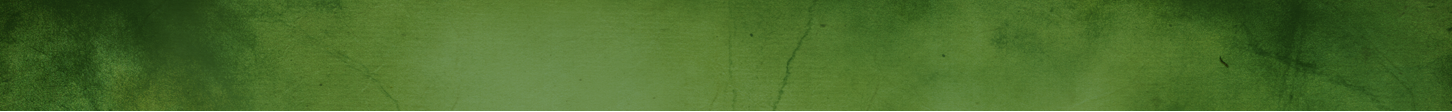
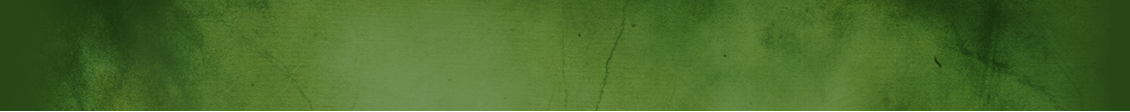
change in header.png new all.png auction item list styled busy loading gif added for auction new repeatx.png changes to login title no more username css changes for buttons, made flat colors for ie

diff --git a/website_saru/ss.css b/website_saru/ss.css
@@ -4,6 +4,7 @@
   width:15px;
   height:15px;
 }
+
 .chkGreen{
   background-image:url(_site/all.png);
   background-position:-456px -134px;
@@ -227,13 +228,12 @@
 	height:15px;
 	top:10px;
 	left:8px;
-	background-image:url('_site/all.png');
-	background-position: -140px -60px;
-	cursor:pointer;
+/*	background-image:url('_site/all.png');
+	background-position: -140px -60px;*/	cursor:pointer;
 }
-.viewAuction:hover{
+/*.viewAuction:hover{
 	background-position: -220px -60px;
-}
+}*/
 .time_stamp{
 	font-family:"Impact";
 	color:#F0BD00;
@@ -275,6 +275,7 @@
 .cmdButton {
 	position:absolute;
 	cursor:pointer;
+	background-color:#606060;
 	background: -webkit-gradient(linear, 0% 0%, 0% 100%, from(#dad8d9), to(#8c8c8c));
 	background: -webkit-linear-gradient(top, #dad8d9, #8c8c8c);
 	background:    -moz-linear-gradient(top, #dad8d9, #8c8c8c);
@@ -295,6 +296,7 @@
 	font-size: 11px;
 	font-weight:bold;
 	color:#2B2B2B;
+	background-color:#EFBD00;
 	background: -webkit-gradient(linear, 0% 0%, 0% 100%, from(#F2C126), to(#B0750D));
 	background: -webkit-linear-gradient(top, #F2C126, #B0750D);
 	background: -moz-linear-gradient(top, #F2C126, #B0750D);
@@ -302,6 +304,7 @@
 	background: -o-linear-gradient(top, #F2C126, #B0750D);
 }
 .cmdButton:active {
+	background-color:#EFBD00;
 	background: -webkit-gradient(linear, 0% 0%, 0% 100%, from(#F2C126), to(#B0750D));
 	background: -webkit-linear-gradient(top, #F2C126, #B0750D);
 	background: -moz-linear-gradient(top, #F2C126, #B0750D);
@@ -367,12 +370,14 @@
 }
 
 .txtGreen{
-	font-family:"Arial Black";
-	color:#d2d2d2;
+	font-family:"Arial Black","Arial";
+	font-weight:900;
+	color:#f1f1f1;
 }
 .txtBlue{
   /*color:#3f6386;*/
- font-family:"Arial Black";
+	font-family:"Arial Black","Arial";
+	font-weight:900;
  text-shadow: 0 1px 1px #333333;
  color:#F2C126 !important;
 }
@@ -418,7 +423,7 @@ div{
 	cursor:default;
 }
 body{
-	color:#d2d2d2;
+	color:#f1f1f1;
 	text-transform:uppercase;
 	font-size:9px;
 	font-family:"Arial";
@@ -449,7 +454,8 @@ body{
 .left_banner_info span{
     position: relative;
     text-align: right;
-    font-family: "Arial Black";
+    font-family:"Arial Black","Arial";
+	font-weight:900;
 }
 
 #right_banner_container{
@@ -559,8 +565,9 @@ body{
 	z-index:2;
 	position: relative;
 	width:100%;
-	background-image:url(_site/header.png);
-	background-repeat: no-repeat;
+	background-position: 0px -1101px;
+	background-image:url(_site/repeatx.png);
+	background-repeat: repeat-x;
 }
 #bodypage{
 	height:725px;
@@ -1071,6 +1078,8 @@ input.registerBox{
 	cursor:pointer;
 }
 .menutop{
+	background-image:url(_site/header.png);
+	background-repeat: no-repeat;
 	width:1130px;
 	height:100%;
 	margin:0 auto;
@@ -1087,13 +1096,13 @@ input.registerBox{
 }
 .menutopitem{
 	background:url(_site/repeatx.png) 0px -320px repeat-x;
-	font-family:"Arial Black";
+	font-family:"Arial Black", "Arial";
 	position:relative;
 	float:right;
 	cursor:pointer;
 	text-shadow: 0px 1px 1px #003803;
 	text-transform:uppercase;
-	font-weight:bolder;
+	font-weight:900;
 	font-size:12px;
 	padding:10px;
 	color:#FAF8F8;
@@ -1122,10 +1131,10 @@ input.registerBox{
 	background:url(_site/all.png)  -300px -80px no-repeat;
 }
 .menu_split{
-	background:url(_site/all.png) -340px -41px no-repeat;
+	background:url(_site/all.png) -341px -42px no-repeat;
 	height:30px;
 	top:80px;
-	width:30px;
+	width:29px;
 	position:relative;
 	float:right;
 }
@@ -1421,7 +1430,8 @@ input.registerBox{
 .windowtitlewords{
 	text-shadow:1px 1px 1px #E4E4E4;
 	color:#393939;
-	font-family:"Arial Black";
+	font-family:"Arial Black","Arial";
+	font-weight:900;
 	padding-top:8px;
 	padding-right:20px;
 	width:100%;
@@ -1432,7 +1442,8 @@ input.registerBox{
 .windowtitlewords_active{
 	text-shadow:1px 1px 1px #E4E4E4;
 	color:#393939;
-	font-family:"Arial Black";
+	font-family:"Arial Black","Arial";
+	font-weight:900;
 	padding-top:8px;
 	padding-right:20px;
 	width:100%;
@@ -1760,7 +1771,7 @@ table.grid tr.numberone td{
 /** AUCTION **/
 	
 .iconCardOwned{
-	background:url(_site/all.png) -462px -41px no-repeat;
+	background:url(_site/all.png) -545px 0px no-repeat;
 	width:21px;
 	height:17px;
 	padding-top:3px;
@@ -1874,6 +1885,25 @@ table.grid tr.numberone td{
 	width:80px;
 	height:125px;
 	float:left;
+	
+}
+.auctionInfoBlock{
+    height: 90%;
+    overflow: hidden;
+    padding-left: 5px;
+    text-align: left;
+    width: 135px;
+    left:90px;
+}
+.buyoutPrice{
+	bottom:17px;
+	text-align:right;
+	right:5px;
+}
+.buyoutPrice span{
+	font-family:"Arial Black","Arial";
+	font-weight:900;
+	color:#F2C126;
 }
 .bidAdjuster {
 	color:#666;

diff --git a/website_saru/_app/auction/auction.js b/website_saru/_app/auction/auction.js
@@ -664,11 +664,9 @@ WORK_Auction.prototype.loadAuctionsLarge=function()
 				marginLeft: 5,
     			marginTop: 10,
 			});
-			//divAuctionImage.onclick=ZU.clickShowFullImage(iCount);
-			
-			var divAuctionTitle = ZA.createDiv(divAuctionBlock,"txtGreen","","div");
+			var divAuctionInfo = ZA.createDiv(divAuctionBlock,"auctionInfoBlock");
+			var divAuctionTitle = ZA.createDiv(divAuctionInfo,"txtGreen","","div");
 			$(divAuctionTitle).css({
-				left:85,
 				fontSize:12,
 				textAlign:"left",
 				height:12,
@@ -681,7 +679,7 @@ WORK_Auction.prototype.loadAuctionsLarge=function()
 			if(cardOwned > 0){
 				var divCardOwned = ZA.createDiv(divAuctionImage,"iconCardOwned",iCount.toString(),"div");
 				$(divCardOwned).css({
-					top: -3,
+					top: 93,
 					left: "auto",
 					right: -10,
 				});
@@ -692,15 +690,15 @@ WORK_Auction.prototype.loadAuctionsLarge=function()
 			}
 			
 			//highest bidder indicator
-			var divHighestBidder = ZA.createDiv(divAuctionBlock,"iconHighestBidder",iCount.toString(),"div");
+			var divHighestBidder = ZA.createDiv(divAuctionInfo,"iconHighestBidder",iCount.toString(),"div");
 			$(divHighestBidder).attr('title','You are the highest bidder');
 			
-			var divAuctionDetails = ZA.createDiv(divAuctionBlock,"","","div");
+			var divAuctionDetails = ZA.createDiv(divAuctionInfo,"","","div");
 			$(divAuctionDetails).css({
-				left:85,
 				top:22,
 				"line-height":1.5,
-				"text-align":"left"
+				"text-align":"left",
+				fontWeight:"600"
 			});
 			var bidCount = parseInt(ZA.getXML(ZU.sXML,"cards/card_"+iCount+"/history/bid_count"),10);
 			var bidAmount;
@@ -720,7 +718,7 @@ WORK_Auction.prototype.loadAuctionsLarge=function()
 			}
 			var owner;
 			var sellerName=ZA.formatUsername(ZA.getXML(ZU.sXML,"cards/card_"+iCount+"/owner"));
-			var sellerTrimName=sellerName.substr(0,13);
+			var sellerTrimName=sellerName.substr(0,12);
 			if(ZA.getXML(ZU.sXML,"cards/card_"+iCount+"/mine") == '1'){
 				owner = '<span style="font-weight:bold;">*** Your Auction ***</span>';
 				$(divAuctionBlock).addClass("mine");
@@ -729,43 +727,37 @@ WORK_Auction.prototype.loadAuctionsLarge=function()
 				owner = 'Seller: '+sellerTrimName;
 			}
 			$(divAuctionDetails).html(
-				'<span style="color:#999;font-size:10px;">'+owner+'</span><br />'+
+				'<span style="font-size:10px;">'+owner+'</span><br />'+
 				'<span>Time Left: <span class="timeLeft">'+ZU.getTimeLeft(new Date(ZA.getXML(ZU.sXML,"cards/card_"+iCount+"/expire")),true)+'</span><br />'+
 				'<input type="hidden" class="endDate" value="'+ZA.getXML(ZU.sXML,"cards/card_"+iCount+"/expire")+'" />'+
 				'<span class="txtBlue" style="font-size:16px;font-weight:bold;"><span class="currentBid">'+bidAmount+'</span>&nbsp;TCG</span>&nbsp;&nbsp;'+
-				'<span style="color:#999;position:absolute;top:34px;"><nobr>[<span class="bidCount">'+bids+'</span>]</nobr></span>'
+				'<span style="position:absolute;top:34px;"><nobr>[<span class="bidCount">'+bids+'</span>]</nobr></span>'
 			);
 			
-			var divAuctionLink = ZA.createDiv(divAuctionBlock,"viewAuction",iCount.toString(),"div");
+			var divAuctionLink = ZA.createDiv(divAuctionInfo,"viewAuction",iCount.toString(),"div");
 			
 			$(divAuctionLink).html('View');
 			$(divAuctionLink).addClass('cmdButton');
 			$(divAuctionLink).css({
 				padding:"4px 5px 2px",
-				left: 85,
-    			top: 80,
+    			top: 102,
     			width: 30,
+    			textAlign:"center",
 			});
 			var buyoutPrice = ZA.getXML(ZU.sXML,"cards/card_"+iCount+"/price");
 			if(buyoutPrice != '0')
 			{
-				var div = ZA.createDiv(divAuctionBlock,"","","div");
+				var div = ZA.createDiv(divAuctionInfo,"","","div");
 				$(div).css({
-					width:20,
-					height:20,
-					bottom:8,
-					right:8,
-					background:"url(_site/all_1.png) -275px -5px no-repeat"
+					left:62,
+					width:28,
+					height:25,
+					bottom:11,
+					background:"url(_site/all.png) -482px -40px no-repeat"
 				});
 				$(div).attr('title','Buy out available');
-				var divBuyout = ZA.createDiv(divAuctionBlock,"","","div");
-				$(divBuyout).css({
-					bottom:12,
-					right:34,
-					color:"#cc0000",
-					textAlign:"right"
-				});
-				$(divBuyout).html(buyoutPrice+' TCG');
+				var divBuyout = ZA.createDiv(divAuctionInfo,"buyoutPrice");
+				$(divBuyout).html("<span>"+buyoutPrice+"</span> TCG");
 			}
 			
 			iCount++;

diff --git a/website_saru/_app/register/register.js b/website_saru/_app/register/register.js
@@ -19,7 +19,7 @@ function WORK_Register(){
       var registerImg = ZA.createDiv(divWin,"register_img");
       //Heading
       var spanHead = ZA.createDiv(divWin,"register_head");
-      $(spanHead).css({fontFamily:"Arial Black",lineHeight:"18px",fontSize:"16px",fontWeight:"bold"});
+      $(spanHead).css({lineHeight:"18px",fontSize:"16px"});
       $(spanHead).html("Become part of the Game Card trend");
       
       //Text

diff --git a/website_saru/work.js b/website_saru/work.js
@@ -1937,7 +1937,7 @@ WORK_Login.prototype.create=function(){
 	ZA.createWindowPopup(0,"Login",350,240,1,0);
 	var divData=document.getElementById("window_0");
 	
-	var divInput=ZE.createInput(divData,5,25,100,30,"Username","loginusername");
+	var divInput=ZE.createInput(divData,5,25,100,30,"Email","loginusername");
 	divInput.focus();
 	
 	$(divData).keydown(function (e){

diff --git a/website_saru/js/jquery.jscrollpane.css b/website_saru/js/jquery.jscrollpane.css
@@ -60,6 +60,7 @@
 .jspDrag
 {
 	border:1px solid #5B5B5B;
+	background-color:#EFBD00;
 	background: -webkit-gradient(linear, 0% 0%, 0% 100%, from(#F2C126), to(#B0750D));
 	background: -webkit-linear-gradient(top, #F2C126, #B0750D);
 	background: -moz-linear-gradient(top, #F2C126, #B0750D);
